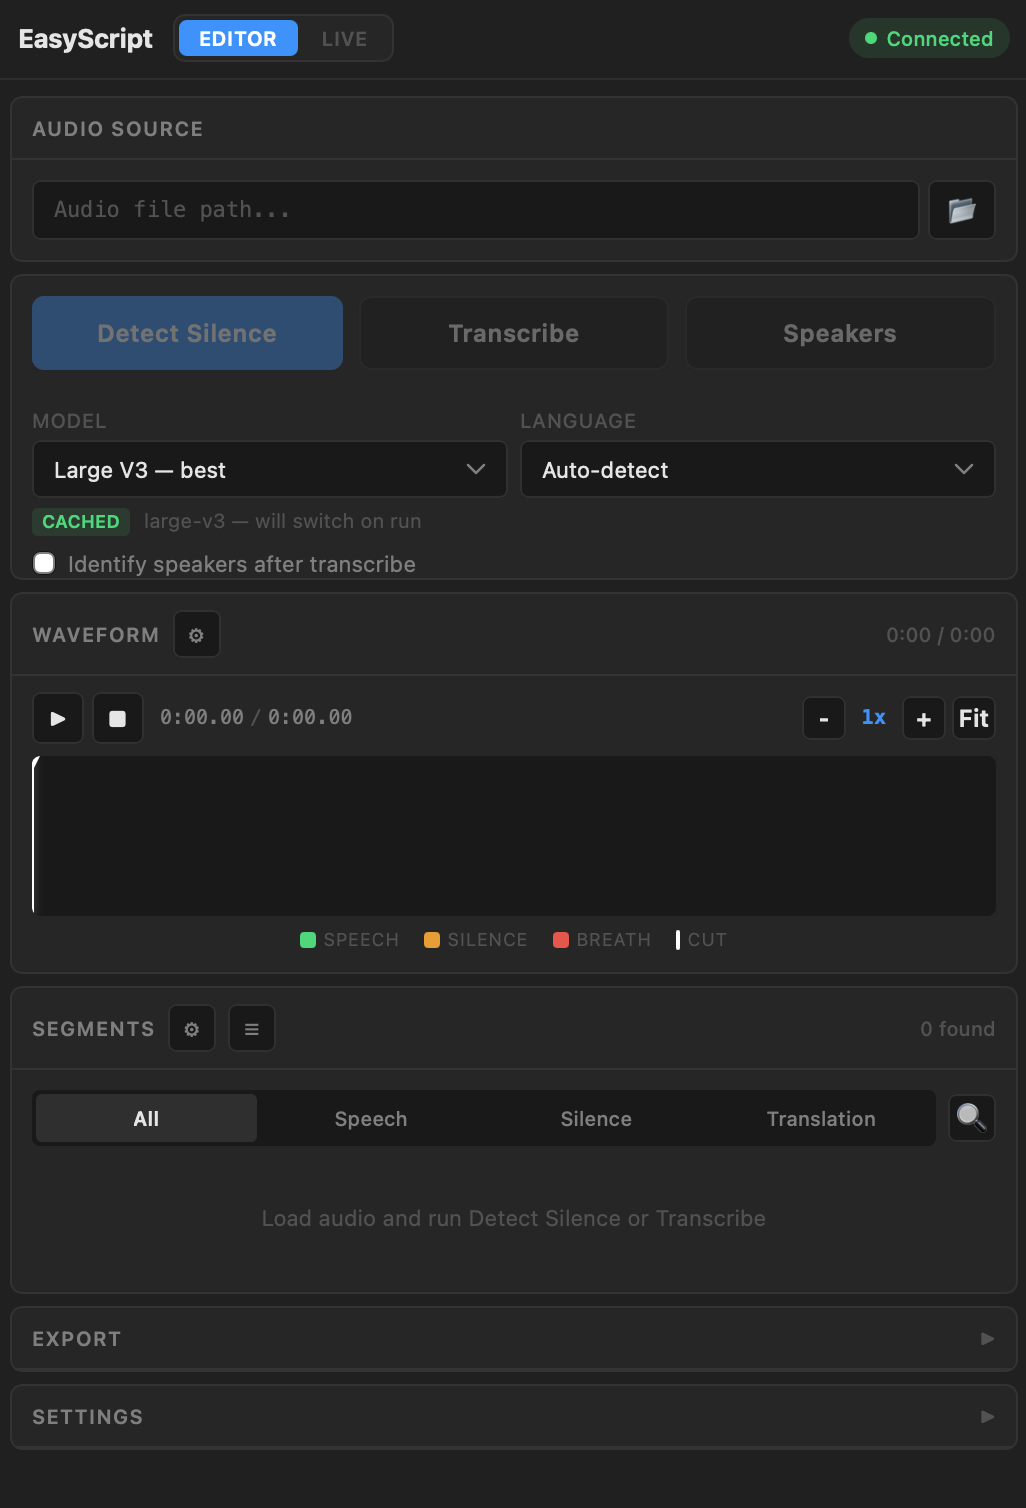
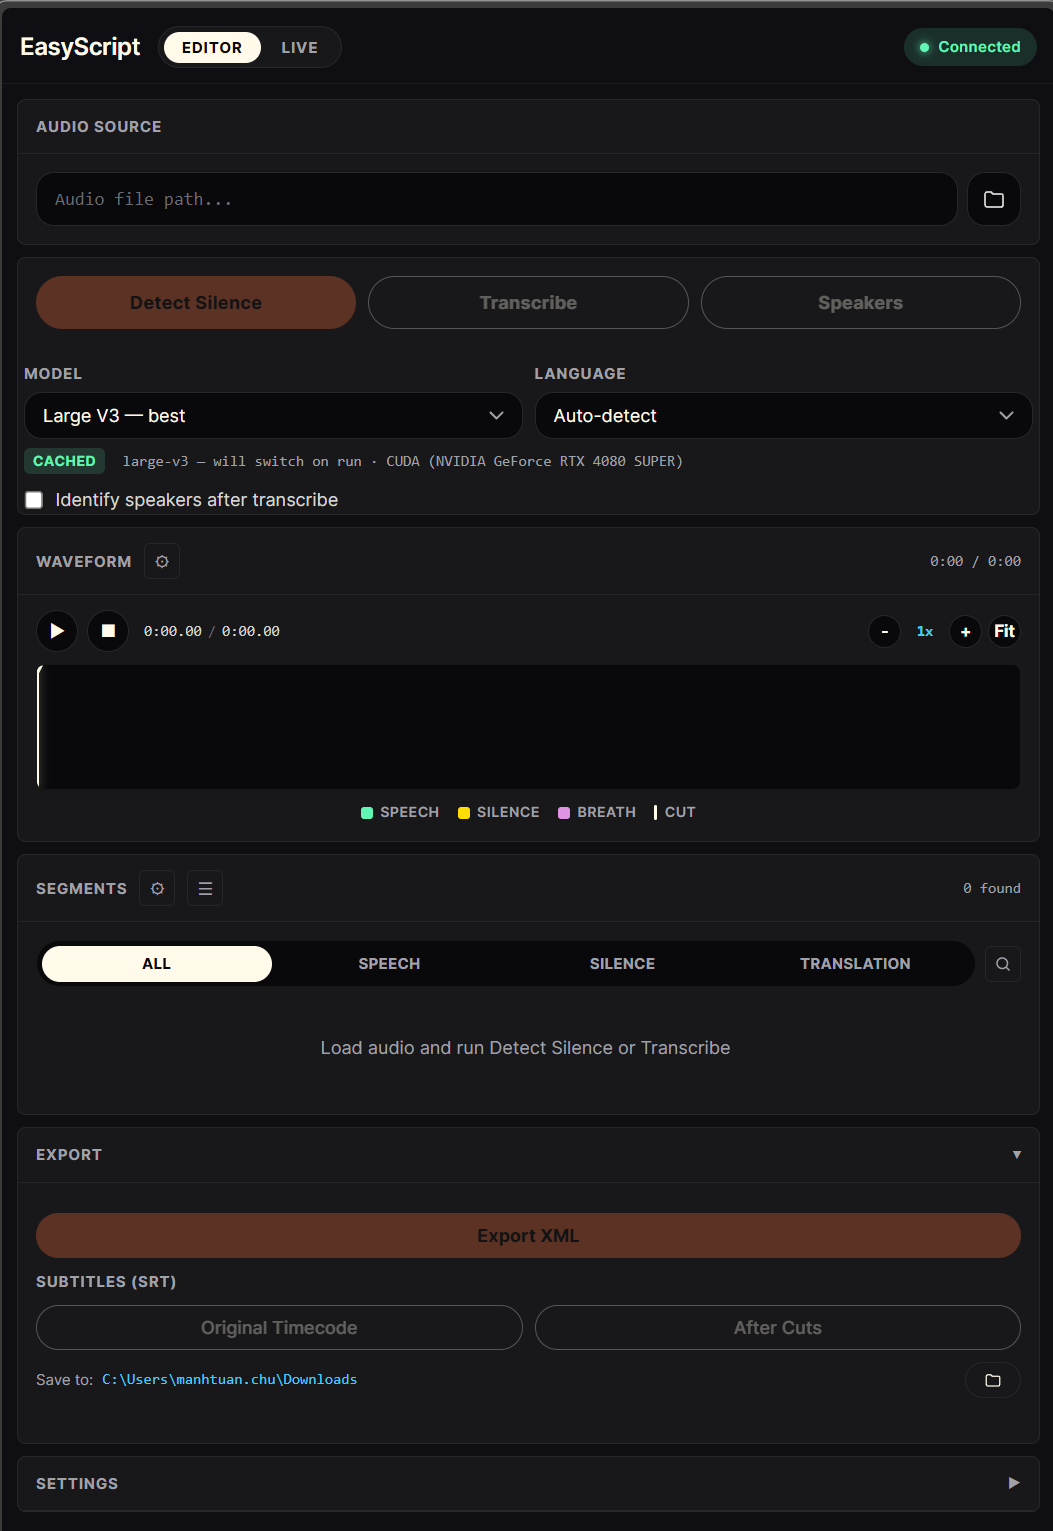
Refresh README screenshots & captions for v1.2.0 Vapi UI
- Replace 7 docs/images screenshots with new captures of the redesigned
  Vapi midnight interface (compressed PNGs in docs/images/).
- Rename: 02-editor-waveform-speakers → 02-editor-waveform-cuts;
  04-display-modes → 04-segments-speaker-labels;
  06-translation-text-view → 06-translation-bilingual;
  04 slot now hosts new 03-song-mode-tuning shot.
- Rewrite captions to call out v1.2.0 changes: auto-waveform after
  upload, Music/Song tuning sliders (Vocal sensitivity, Phrase gap,
  Decode quality), bilingual segment view with speaker pills, live
  partial highlighting in cyan.

diff --git a/README.md b/README.md
@@ -8,38 +8,46 @@ Built for macOS (Apple Silicon optimized with Metal GPU acceleration) and Window
 
 ## Screenshots
 
+> **v1.2.0** — Redesigned interface (Vapi midnight console), auto-waveform on file select, and song-mode tuning sliders.
+
 ### Editor Mode — Main Interface
-Load audio files, detect silence, transcribe speech, and identify speakers — all from a clean, intuitive interface with waveform visualization.
+Pick an audio/video file and you're ready to go: action buttons (Detect Silence · Transcribe · Speakers), model + language pickers, an interactive waveform, segments list, and export controls — all in a single compact panel. CUDA / device status is shown next to the model tag.
 
 ![Editor Mode Overview](docs/images/01-editor-overview.png)
 
-### Waveform & Speaker Diarization
-Interactive waveform viewer with color-coded speech/silence/breath segments. After running speaker diarization, each segment is labeled with the identified speaker (Speaker A, B, C...) in distinct colors.
+### Waveform & Cut Detection
+After loading an audio file the waveform appears immediately, so Transcribe or Speakers can run **without** clicking Detect Silence first. Open the cut-settings panel to fine-tune padding, minimum silence and silence threshold; preview the resulting cuts on the waveform with the SPEECH / SILENCE / BREATH / CUT legend.
 
-![Waveform with Speakers](docs/images/02-editor-waveform-speakers.png)
+![Waveform & Cut Detection](docs/images/02-editor-waveform-cuts.png)
 
-### Speech Segments with Speaker Labels
-Transcribed segments are displayed with speaker identification, timecodes, and the transcribed text. Filter by All, Speech, Silence, or Translation tabs.
+### Music / Song — Tunable Lyric Recognition
+Choosing **Music / Song** in the transcribe dialog reveals three sliders that let you steer how Whisper handles isolated vocals:
 
-![Segments with Speaker Labels](docs/images/03-segments-speaker-labels.png)
+- **Vocal sensitivity** — lower catches whispered / falsetto vocals, higher rejects background music
+- **Phrase gap** — minimum silence (ms) between lyric phrases
+- **Decode quality** — beam search width 1 → 5 (slower but more coherent lyrics)
 
-### Display Mode Settings
-Choose how text is displayed: Natural sentences, Word by word, By punctuation, or Max words per line — flexible formatting for different use cases.
+Vocals are first isolated with Demucs, then Whisper transcribes the clean vocal track with your chosen settings.
 
-![Display Modes](docs/images/04-display-modes.png)
+![Music / Song tuning sliders](docs/images/03-song-mode-tuning.png)
 
-### Translation — Language Selection
-Translate transcriptions into 30+ languages. Click "+" to add a target language from the language picker with support for Vietnamese, Chinese, Japanese, Korean, Thai, and many more.
+### Segments with Speaker Labels & Bilingual Text
+Each segment shows a colored speaker pill (Speaker A, B, C…), a monospace timecode, the original line, and the translation below. Click a segment to jump the playhead; click the speaker pill to rename them.
+
+![Segments with Speaker Labels](docs/images/04-segments-speaker-labels.png)
+
+### Translation — Language Picker
+Add a target language from a flat grid covering 40+ languages. The source language and already-added languages are dimmed. Languages stick as pill-tabs, switchable in one click.
 
 ![Translation Languages](docs/images/05-translation-languages.png)
 
-### Translation — Text View
-View translations in a continuous text format. Add multiple target languages (e.g., Vietnamese + Japanese) with tabs to switch between them.
+### Translation — Multi-language Bilingual View
+Run multiple translations in parallel (Vietnamese, Chinese, Japanese, …) and switch between them with pill-tabs. Each segment shows the original line in italic above the translation, with the speaker label still attached.
 
-![Translation Text View](docs/images/06-translation-text-view.png)
+![Translation Bilingual View](docs/images/06-translation-bilingual.png)
 
 ### Live Mode — Real-time Transcription
-Record from your microphone and get real-time transcription with sentence-level splitting. Choose the Turbo model for fast Vietnamese transcription, or any other model for your language.
+Record from microphone or system audio and watch lines appear as you speak. The currently-streaming partial line is highlighted in cyan with a `● live` tag; finalized segments stack below with timecodes. Pause / Stop control the session without losing what's already been captured.
 
 ![Live Mode](docs/images/07-live-mode.png)
 